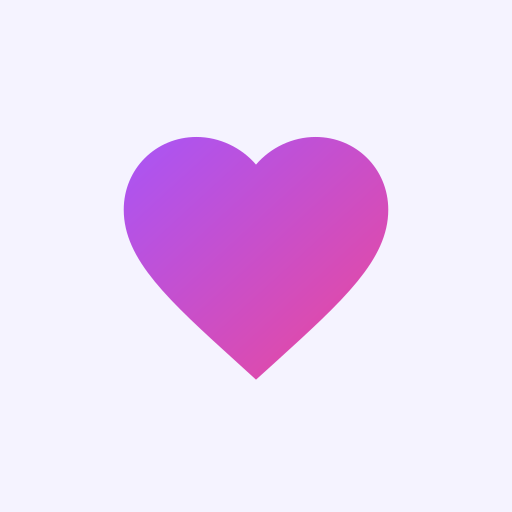
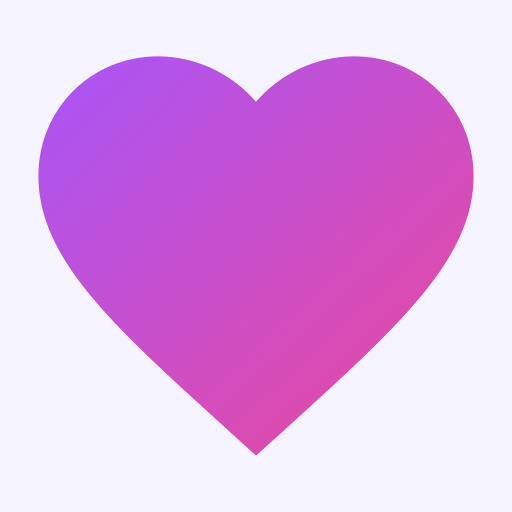
fix(pwa): Android 스플래시 하트–이름 간격 축소 — 아이콘 하트 확대, iOS 홈 아이콘은 유지
- icon-192/512(any): 하트 폭 약 85%로 재생성(배경 #f5f3ff, #a855f7→#ec4899)
- icon-maskable-192/512: 하트 폭 약 64%(지름 80% 안전영역 안), manifest purpose:maskable 등록
- apple-touch-icon(180, 기존 모양 하트 약 52%) + metadata.icons.apple 지정 — iOS 홈 아이콘 유지

Changed region(s): [[0.0625, 0.0938, 0.9375, 0.9062]]

diff --git a/src/app/layout.tsx b/src/app/layout.tsx
@@ -22,6 +22,9 @@ export const metadata: Metadata = {
   title: 'Today Date',
   description: '우리 둘만의 데이트 기록',
   manifest: '/manifest.json',
+  // iOS 홈 아이콘은 기존 모양(하트 약 52%)을 유지한다. manifest 의 any 아이콘은 Android 스플래시용으로
+  // 하트를 키웠기 때문에(약 85%), iOS 가 그걸 홈 아이콘으로 쓰지 않도록 apple-touch-icon 을 따로 지정한다.
+  icons: { apple: '/apple-touch-icon.png' },
   // iOS Safari가 이메일처럼 보이는 텍스트를 자동으로 밑줄+링크화하는 것을 막는다 —
   // 그 자동 밑줄이 줄바꿈 경계에서 끊겨 보이는 문제(계정/파트너 정보 화면의 이메일 표시)가 있었다.
   formatDetection: { email: false },
